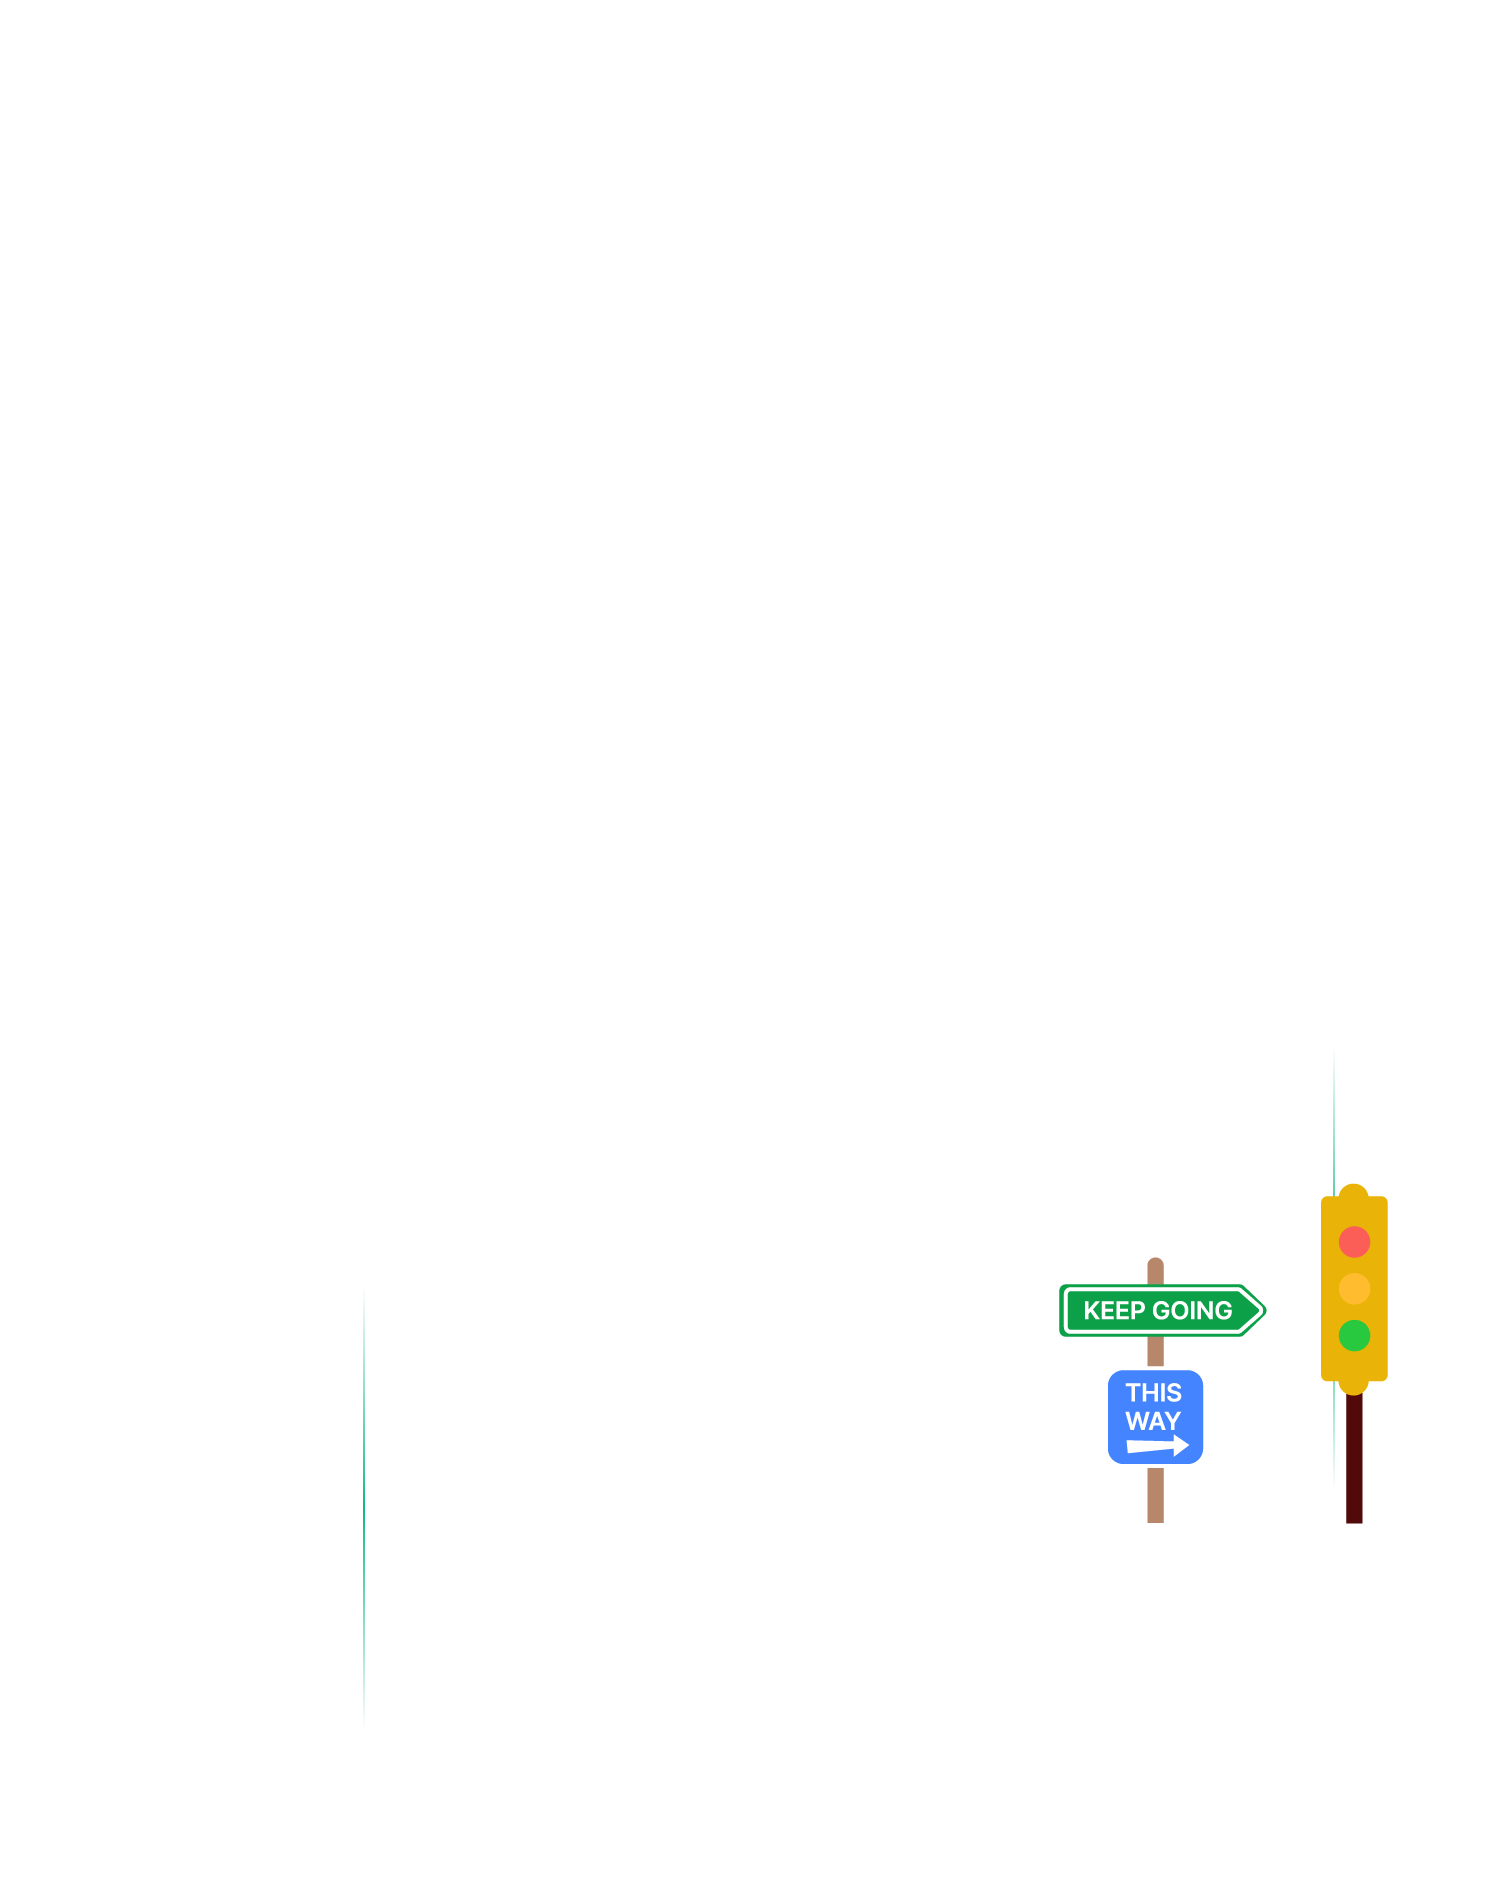
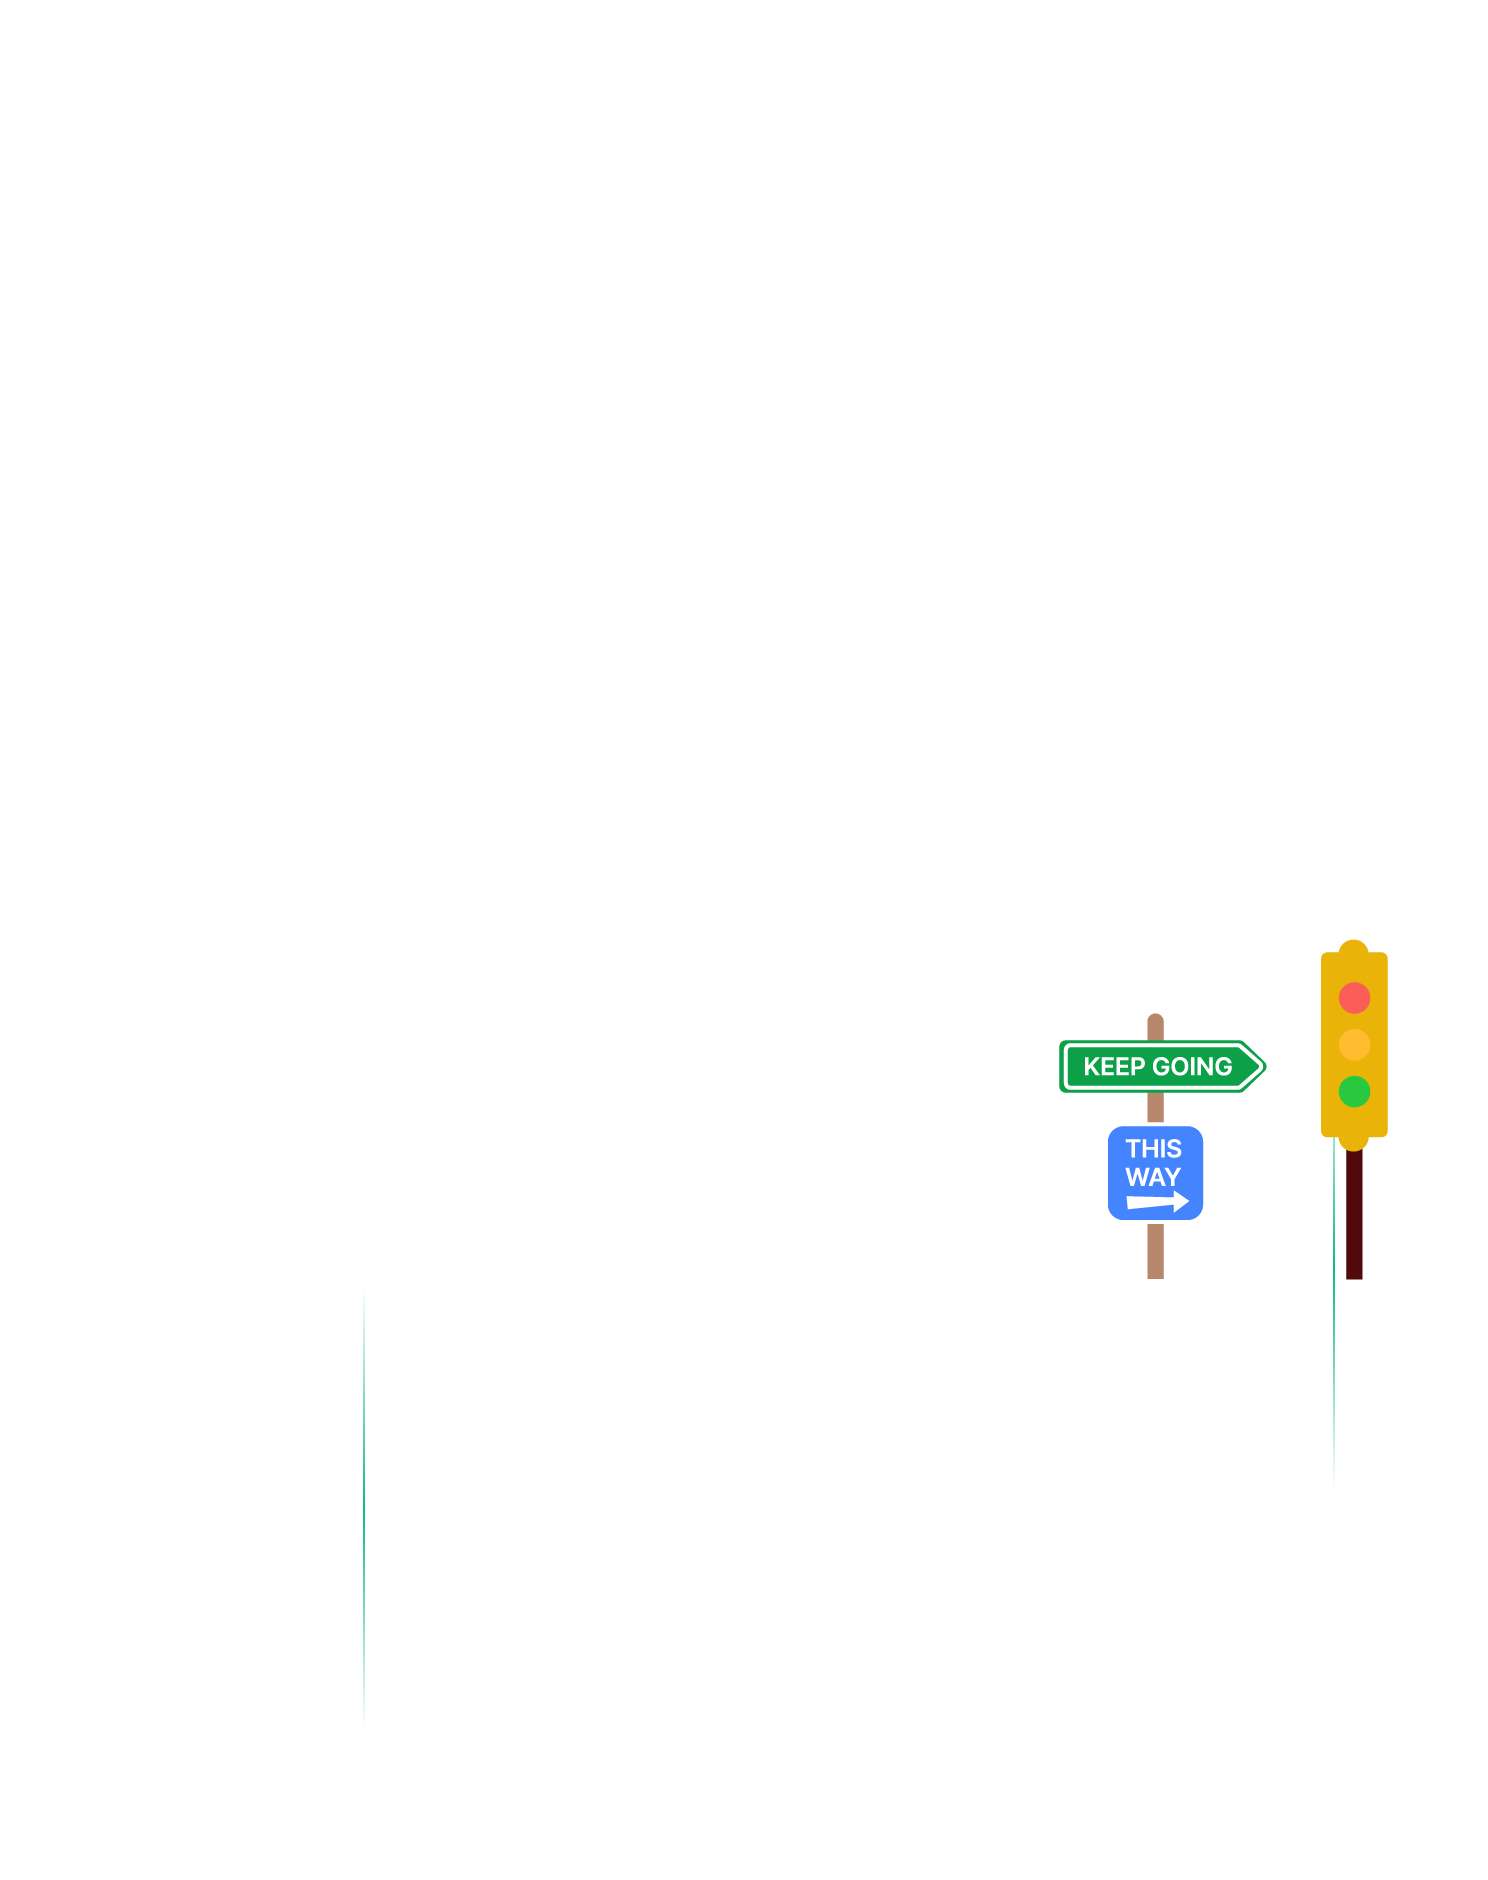
[design] Landing: 하단 섹션 배경 일러스트 변경(격자 기준 아이템 위치 한 칸 내림), 텍스트 갭 조절

Changed region(s): [[0.711, 0.4936, 0.9583, 0.833]]

diff --git a/src/app/(landing)/_components/BottomSection/index.tsx b/src/app/(landing)/_components/BottomSection/index.tsx
@@ -1,3 +1,4 @@
+import clsx from 'clsx';
 import LandingBottomBg from '@/app/(landing)/_components/BottomSection/LandingBottomBg';
 import { LandingBottomText } from '@/app/(landing)/_components/BottomSection/LandingBottomText';
 import Workers from '@/app/(landing)/_components/BottomSection/Workers';
@@ -8,8 +9,15 @@ const LandingBottomSection = ({ className }: { className?: string }) => {
       className={`${className} relative flex h-screen w-full flex-col items-center text-center`}
     >
       <LandingBottomBg className="relative flex" />
-      <LandingBottomText className="absolute mt-55" />
-      <Workers className="laptop:mt-138 laptop:mr-120 tablet:mt-152 tablet:mr-100 absolute mt-90 mr-90" />
+      <LandingBottomText className="laptop:mt-55 tablet:mt-45 absolute mt-25" />
+      <Workers
+        className={clsx(
+          'absolute',
+          'laptop:mt-138 laptop:mr-120',
+          'tablet:mt-122 tablet:mr-100',
+          'mt-90 mr-90'
+        )}
+      />
     </section>
   );
 };

diff --git a/src/app/(landing)/_components/BottomSection/Workers.tsx b/src/app/(landing)/_components/BottomSection/Workers.tsx
@@ -21,7 +21,7 @@ const Workers = ({ className }: { className?: string }) => {
       {/* 인부1 */}
       <motion.div
         initial={{ left: 0 }}
-        animate={{ x: 150 }}
+        animate={{ x: 150, y: [0, 5, 0] }}
         transition={{
           duration: 1.5,
           ease: 'easeOut',
@@ -47,7 +47,7 @@ const Workers = ({ className }: { className?: string }) => {
       {/* 인부2 */}
       <motion.div
         initial={{ x: 0 }}
-        animate={{ x: 150 }}
+        animate={{ x: 150, y: [0, -5, 0] }}
         transition={{
           duration: 1.5,
           ease: 'easeOut',
@@ -73,7 +73,7 @@ const Workers = ({ className }: { className?: string }) => {
       {/* 인부3 */}
       <motion.div
         initial={{ x: 0 }}
-        animate={{ x: 150 }}
+        animate={{ x: 150, y: [0, 5, 0] }}
         transition={{
           duration: 1.5,
           ease: 'easeOut',

diff --git a/src/app/(landing)/_components/BottomSection/LandingBottomText.tsx b/src/app/(landing)/_components/BottomSection/LandingBottomText.tsx
@@ -1,11 +1,13 @@
 export const LandingBottomText = ({ className }: { className?: string }) => {
   return (
-    <div className={`${className}`}>
+    <div className={`${className} tablet:gap-[24px] flex flex-col gap-[16px]`}>
       <h1 className="tablet:text-[40px] text-[24px] font-semibold">
         지금 바로 시작해 보세요
       </h1>
       <p className="tablet:text-[24px] text-[16px] font-medium">
-        팀원 모두와 같은 방향, 같은 속도로 나아가는 가장 쉬운 방법
+        팀원 모두와 같은 방향,
+        <br className="tablet:hidden" />
+        같은 속도로 나아가는 가장 쉬운 방법
       </p>
     </div>
   );

diff --git a/src/app/page.tsx b/src/app/page.tsx
@@ -3,16 +3,11 @@
 import LandingTopSection from '@/app/(landing)/_components/TopSection';
 import LandingMiddleSection from '@/app/(landing)/_components/MiddleSection';
 import LandingBottomSection from '@/app/(landing)/_components/BottomSection';
-import StartButton from '@/app/(landing)/_components/StartButton';
 
 export default function LandingPage() {
   return (
     <div className="flex h-screen w-full flex-col items-center">
       <LandingTopSection />
-      {/* 지금 시작하기 버튼 */}
-      <div>
-        <StartButton />
-      </div>
       <LandingMiddleSection className="mt-40" />
       <LandingBottomSection />
     </div>

diff --git a/src/app/(landing)/_components/BottomSection/LandingBottomBg.tsx b/src/app/(landing)/_components/BottomSection/LandingBottomBg.tsx
@@ -13,7 +13,7 @@ const LandingBottomBg = ({ className }: { className?: string }) => {
         className="laptop:block hidden object-none"
       />
       <Image
-        src={`${LANDING_IMAGE_URL}landing_bottom_bg_m_01.png`}
+        src={`${LANDING_IMAGE_URL}landing_bottom_bg_m.png`}
         alt="TABLET 격자 패턴 이미지"
         width={744}
         height={940}
